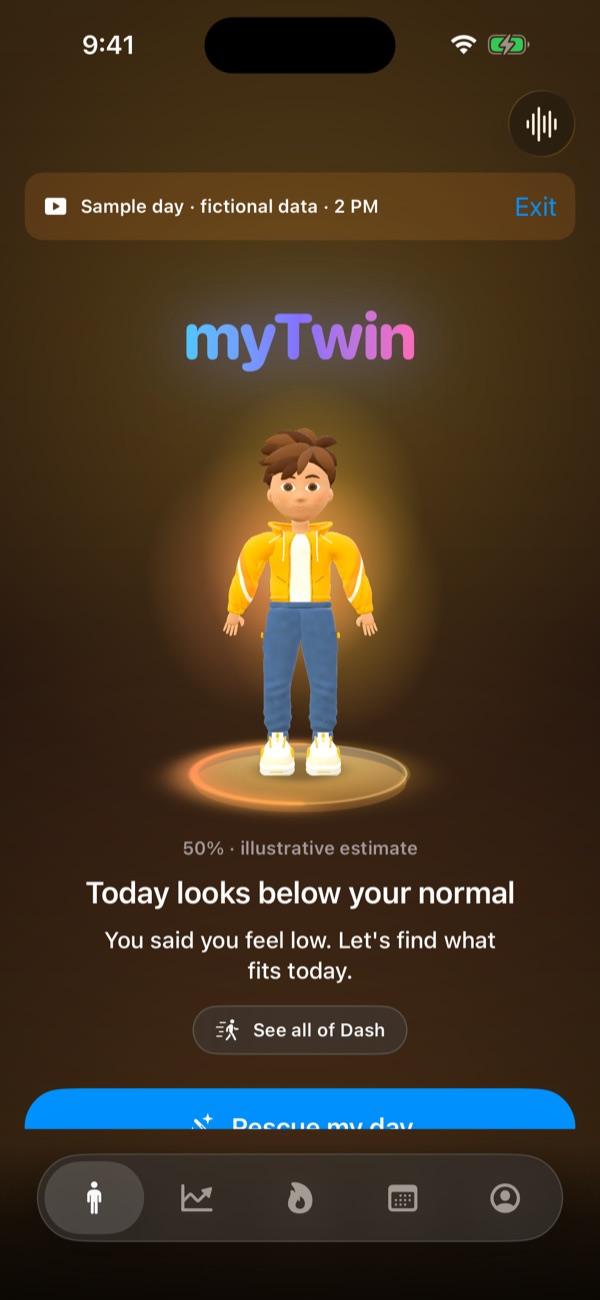
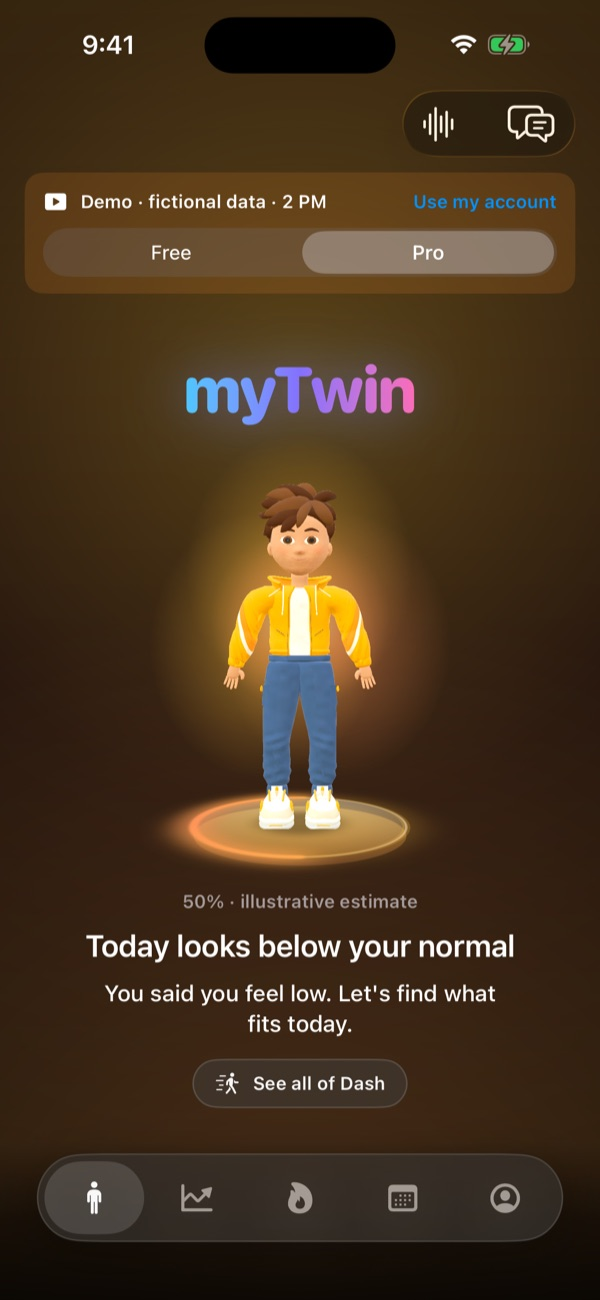
Show guest mode in the README: welcome, Free vs Pro, the demo's data, and setup
Adds a Try it as a guest section with the new screens, and retakes the
screenshots that still showed the old sample-day banner.

Changed region(s): [[0.03, 0.1231, 0.96, 0.8923], [0.84, 0.0615, 0.93, 0.1231], [0.69, 0.0615, 0.75, 0.1231]]

diff --git a/README.md b/README.md
@@ -39,6 +39,7 @@ you when your last coffee still clears before bed. When the day falls apart, one
 ## Contents
 
 - [Who it's for](#who-its-for)
+- [Try it as a guest](#try-it-as-a-guest)
 - [Meet Dash](#meet-dash)
 - [Features](#features)
 - [Free and Pro, powered by RevenueCat](#free-and-pro-powered-by-revenuecat)
@@ -54,6 +55,56 @@ you when your last coffee still clears before bed. When the day falls apart, one
 | 💼 **The busy professional** | Back-to-back meetings, the 3 PM crash, one coffee too many. | Predicts the dip before it hits, finds the one free gap for a walk or a nap, and warns you before a demanding meeting lands on a low-energy hour. |
 | 🏃 **The athlete** | Training hard on a poor night's sleep, or wasting a great one. | Compares last night with *your* baseline, suggests when to push and when to go easy, and swaps a strength session for mobility work when you're drained. |
 | 🙂 **Everyone else** | Wearables produce numbers, not decisions. | One glance at Dash says how today will go. One tap fixes the plan. No watch? A three-button check-in works from day one. |
+
+---
+
+## Try it as a guest
+
+No watch, no Apple Health, no calendar? Judges and new users can explore **everything** in a
+guest demo. "Alex" comes with a full fictional life: a week of calendar, sleep and heart rate,
+steps, workouts and weight, and the questions they keep asking. Nothing of yours is read or
+saved, and you can switch to your own account at any time.
+
+<table>
+<tr>
+<td align="center" width="33%"><img src="assets/screenshots/welcome.jpg" width="220" alt="Welcome screen"/><br/><b>1. Welcome</b><br/><sub>The live 3D Dash waves hello. Continue as a guest, or as a user.</sub></td>
+<td align="center" width="33%"><img src="assets/screenshots/guest_choice.jpg" width="220" alt="Choose Pro or free"/><br/><b>2. Pick a version</b><br/><sub>Try myTwin with Pro, or the free version.</sub></td>
+<td align="center" width="33%"><img src="assets/screenshots/demo_free_home.jpg" width="220" alt="The demo"/><br/><b>3. You're in</b><br/><sub>Every demo page is labelled, with a Free/Pro switch and a way out.</sub></td>
+</tr>
+</table>
+
+### Free and Pro, side by side
+
+Flip the switch on any demo page and the app changes on the spot, with no restart. The
+free plan shows your day; Pro adds suggestions in your free time and **Rescue my day**.
+
+<p align="center">
+  <img src="assets/screenshots/demo_free_plan.jpg" width="250" alt="Plan in the free version"/>
+  &nbsp;&nbsp;➜&nbsp;&nbsp;
+  <img src="assets/screenshots/demo_pro_plan.jpg" width="250" alt="Plan in Pro"/>
+</p>
+
+### Everything a real user has, simulated
+
+<table>
+<tr>
+<td align="center" width="33%"><img src="assets/screenshots/demo_week.jpg" width="220" alt="Demo week calendar"/><br/><b>A week of calendar</b><br/><sub>Work, school, fitness and personal events, plus an all-day birthday.</sub></td>
+<td align="center" width="33%"><img src="assets/screenshots/demo_activity.jpg" width="220" alt="Demo activity"/><br/><b>Activity and goals</b><br/><sub>Steps, calories, a week of sleep and weight, with goals to fill.</sub></td>
+<td align="center" width="33%"><img src="assets/screenshots/demo_pro_questions.jpg" width="220" alt="Demo questions with answers"/><br/><b>Questions and answers</b><br/><sub>"You often ask", answered in Pro. Chat and voice work too.</sub></td>
+</tr>
+</table>
+
+### Or set up your own
+
+**Continue as a user** asks for your name and age, then connects Apple Health and Calendar,
+with a green tick as each one is allowed. You can skip and connect later from the You page,
+and **Try the demo** there takes you back to the guest mode at any time.
+
+<p align="center">
+  <img src="assets/screenshots/user_about.jpg" width="250" alt="About you"/>
+  &nbsp;&nbsp;➜&nbsp;&nbsp;
+  <img src="assets/screenshots/user_connect.jpg" width="250" alt="Connect Apple Health and Calendar"/>
+</p>
 
 ---
 
@@ -276,9 +327,11 @@ shortcuts. New users see three starter questions.
 - **Pro:** Dash's latest answer sits under each question, and a tap asks again for a fresh one.
 
 <p align="center">
-  <img src="assets/screenshots/questions_free.jpg" width="250" alt="Questions card, free"/>
-  &nbsp;&nbsp;
-  <img src="assets/screenshots/questions_locked.jpg" width="250" alt="Upgrade prompt"/>
+  <img src="assets/screenshots/questions_free.jpg" width="220" alt="Questions card, free"/>
+  &nbsp;
+  <img src="assets/screenshots/questions_locked.jpg" width="220" alt="Upgrade prompt"/>
+  &nbsp;
+  <img src="assets/screenshots/demo_pro_questions.jpg" width="220" alt="Questions with answers, Pro"/>
 </p>
 
 ### 13. Works while the app is closed
